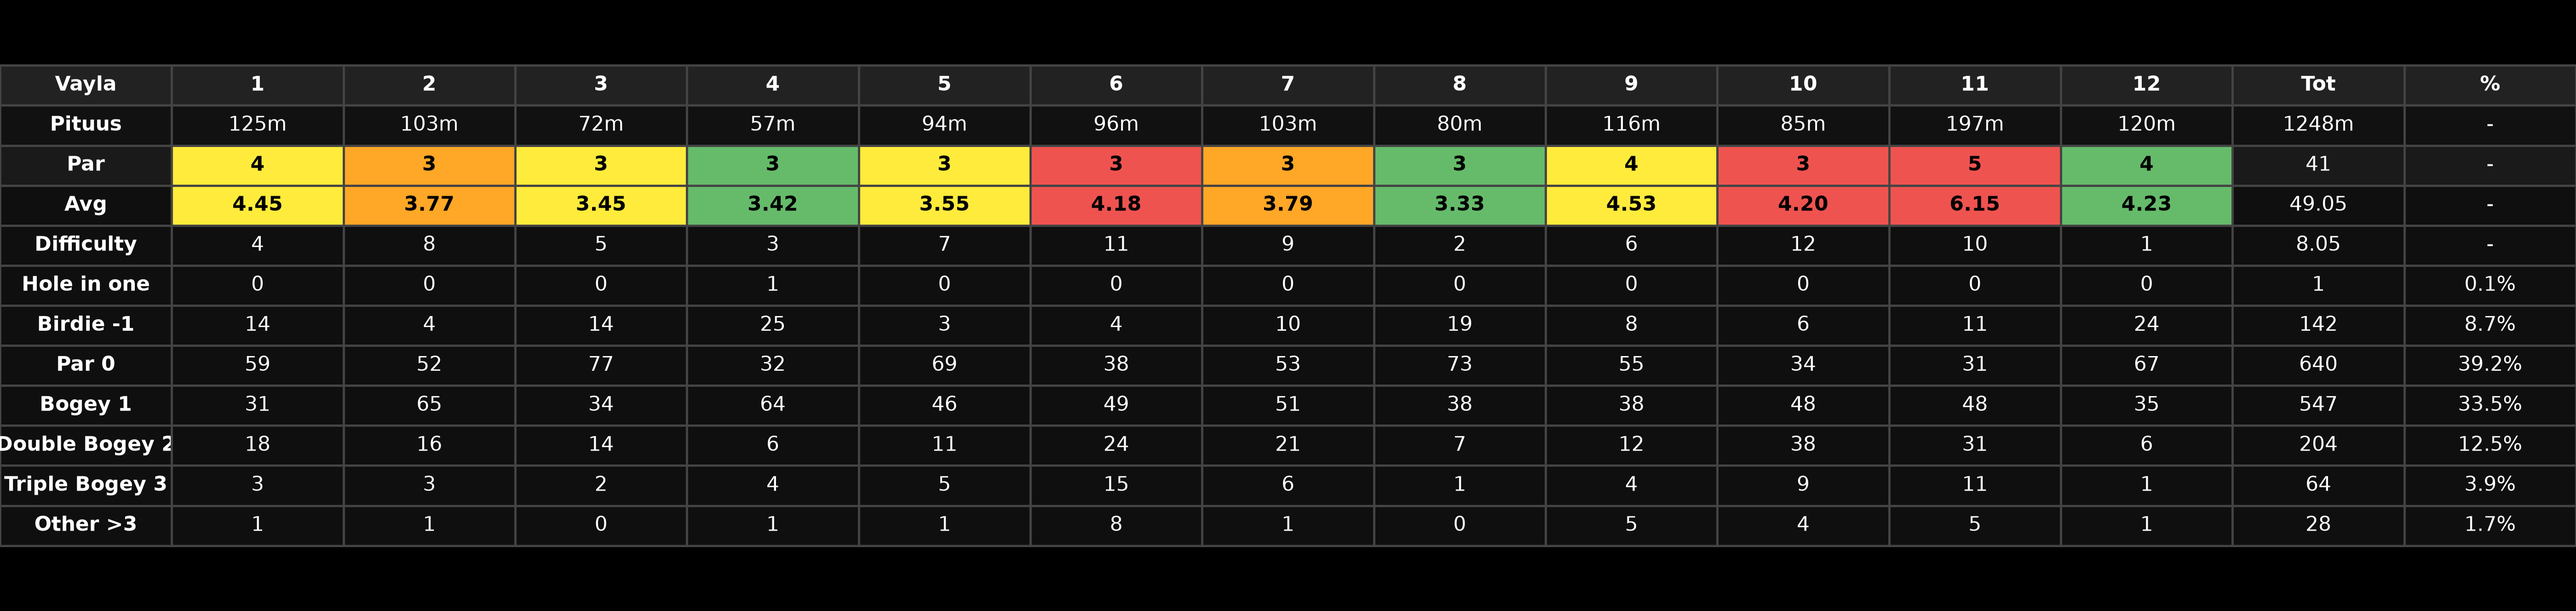
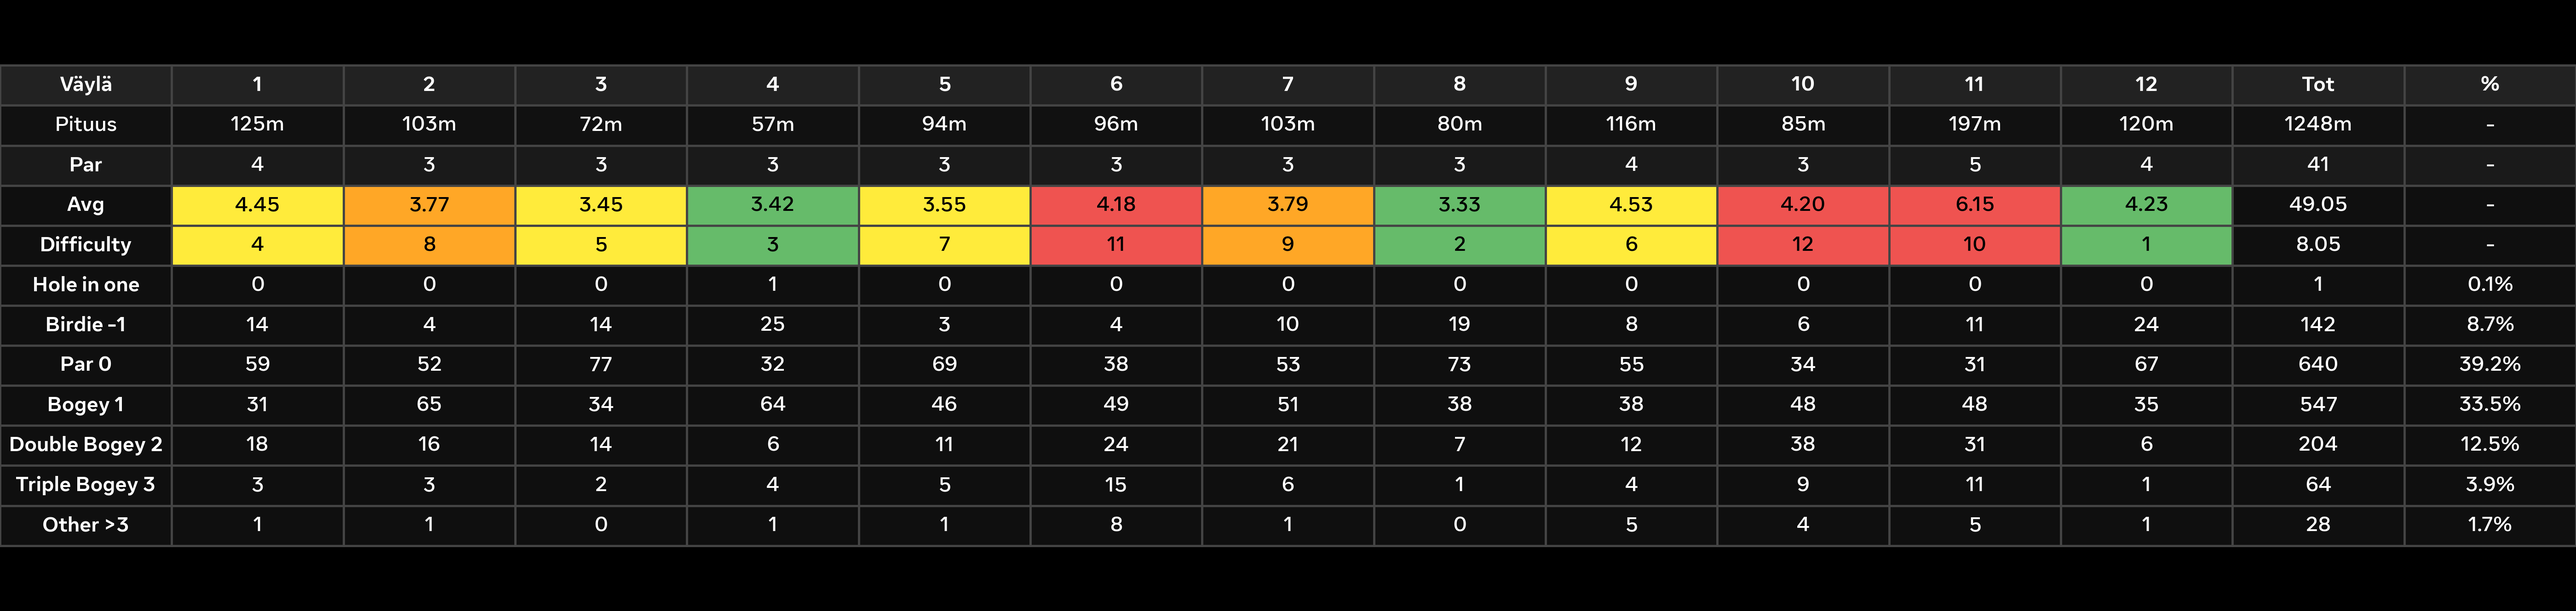
Add files via upload

diff --git a/index.html b/index.html
@@ -1,79 +1,39 @@
-<!DOCTYPE html>
-<html lang="fi">
-<head>
-<meta charset="UTF-8">
-<meta name="viewport" content="width=device-width, initial-scale=1.0">
+<!DOCTYPE html><html lang="fi"><head><meta charset="UTF-8"><meta name="viewport" content="width=device-width,initial-scale=1">
 <title>Luoma-aho FULL AUTO TOP5 SÄÄ</title>
 <style>
-*{box-sizing:border-box} body{margin:0;font-family:Arial;background:#0a0a0a;color:#e0e0e0}
-.header{display:flex;justify-content:space-between;align-items:center;background:#000;padding:12px 20px;border-bottom:1px solid #222}
-.header-left{display:flex;align-items:center;gap:12px}
-.header-left img{height:44px;width:auto;display:block}
-.header-right{display:flex;gap:8px;flex-wrap:wrap} .header-right img{height:28px;background:#fff;border-radius:4px;padding:2px}
+*{box-sizing:border-box}body{margin:0;font-family:Arial;background:#0a0a0a;color:#e0e0e0}
+.header{display:flex;justify-content:space-between;align-items:center;background:#000;padding:12px 20px;border-bottom:1px solid #222;flex-wrap:wrap;gap:12px}
+.header-left{display:flex;align-items:center;gap:12px}.header-left img{height:50px;width:auto;display:block}
+.header-right{display:flex;gap:12px;flex-wrap:wrap;align-items:center}.header-right img{height:42px !important;width:auto;background:#fff;border-radius:6px;padding:3px;transition:transform .15s}.header-right img:hover{transform:scale(1.08)}
 .grid{display:grid;grid-template-columns:repeat(3,1fr);gap:14px;padding:16px;max-width:1400px;margin:0 auto}
 .grid-4{display:grid;grid-template-columns:repeat(4,1fr);gap:14px;padding:0 16px 16px;max-width:1400px;margin:0 auto}
 .card{background:#181818;border:1px solid #2a2a2a;border-radius:14px;padding:18px;min-height:160px}
-.card h3{margin:0 0 12px 0;font-size:11px;color:#888;text-transform:uppercase}
-.card h3 .auto{color:#00ff00}
-.big{font-size:32px;font-weight:900;color:#fff} .small{font-size:11px;color:#777;margin-top:10px}
-.list{list-style:none;padding:0;margin:0;font-size:12px} .list li{display:flex;justify-content:space-between;padding:7px 0;border-bottom:1px solid #222}
-.vayla-section{max-width:1400px;margin:0 auto;padding:0}
-.vayla-card{background:#000;border:0;border-radius:0;padding:0;margin:0;overflow:hidden}
-.vayla-card img{width:100%;display:block;margin:0;padding:0;border:0;border-radius:0}
-@media(max-width:900px){.grid,.grid-4{grid-template-columns:1fr}}
-</style>
-</head>
+.card h3{margin:0 0 12px 0;font-size:11px;color:#888;text-transform:uppercase}.card h3 .auto{color:#00ff00}
+.big{font-size:32px;font-weight:900;color:#fff}.small{font-size:11px;color:#999;margin-top:10px}
+.ratainfo-text{color:#e6e6e6 !important;font-size:13px !important;line-height:1.7 !important;font-weight:500 !important}
+.list{list-style:none;padding:0;margin:0;font-size:12px}.list li{display:flex;justify-content:space-between;padding:7px 0;border-bottom:1px solid #222}
+.vayla-section{max-width:1400px;margin:0 auto;padding:0}.vayla-card{background:#000;border:0;padding:0;margin:0;overflow:hidden}.vayla-card img{width:100%;display:block;margin:0;padding:0;border:0}
+@media(max-width:900px){.grid,.grid-4{grid-template-columns:1fr}.header-right img{height:36px !important}.header-left img{height:42px}}
+</style></head>
 <body>
-<div class="header">
-  <div class="header-left">
-    <a href="/"><img src="./logot/l-a-friba-logo.jpg" alt="logo"></a>
-    <span style="font-size:125%;font-weight:800;color:#fff;letter-spacing:0.5px">Luoma-ahon Frisbeegolfrata</span>
-    <span style="color:#00ff00;font-size:12px">● LIVE 1s/5min FULL</span>
-  </div>
-  <div class="header-right">
-    <a href="https://www.google.com/maps/place/Luoma-ahon+Frisbeegolfrata/@63.0901676,23.8860139,12z"><img src="./logot/gmaps-logo.jpg"></a>
-    <a href="https://discgolfmetrix.com/course/44010"><img src="./logot/metrix-logo.png"></a>
-    <a href="https://photos.google.com/share/AF1QipPwBhzcZ3Nf0BEpLICSkhQSFIuTA1VO3i1W_u0l_4oY_ZfytXxa21wqxIx4RqRepA"><img src="./logot/parkdly-logo.png"></a>
-    <a href="https://photos.google.com/share/AF1QipNfClPGrg-CMqrUn9w9qeso7oFvZzjTO-kmUuy3NWf9o06lgy1TohSBSykLkaW-vw"><img src="./logot/loytokiekot-logo.png"></a>
-    <a href="https://youtu.be/ewQ-m-BU6SI"><img src="./logot/yt-logo.png"></a>
-    <a href="https://www.instagram.com/62830_frisbeegolfrata"><img src="./logot/ig-logo.png"></a>
-    <a href="https://frisbeegolfradat.fi/rata/luoma-ahon-frisbeegolfrata/"><img src="./logot/fgr-logo.png"></a>
-    <a href="https://udisc.com/courses/luoma-ahon-frisbeegolfrata-YNEx"><img src="./logot/udisc-logo.png"></a>
-    <a href="https://luomaahonfrisbeegolfrata-gif.github.io/ratamestari-palvelu/"><img src="./logot/ratamestari-logo.png"></a>
-  </div>
-</div>
-
+<div class="header"><div class="header-left"><a href="/"><img src="./logot/l-a-friba-logo.jpg" alt="logo"></a><span style="font-size:125%;font-weight:800;color:#fff">Luoma-ahon Frisbeegolfrata</span><span style="color:#00ff00;font-size:12px">● LIVE 1s/5min FULL</span></div>
+<div class="header-right">
+<a href="https://www.google.com/maps/place/Luoma-ahon+Frisbeegolfrata/@63.0901676,23.8860139,12z"><img src="./logot/gmaps-logo.jpg"></a>
+<a href="https://discgolfmetrix.com/course/44010"><img src="./logot/metrix-logo.png"></a>
+<a href="https://photos.google.com/share/AF1QipPwBhzcZ3Nf0BEpLICSkhQSFIuTA1VO3i1W_u0l_4oY_ZfytXxa21wqxIx4RqRepA"><img src="./logot/parkdly-logo.png"></a>
+<a href="https://photos.google.com/share/AF1QipNfClPGrg-CMqrUn9w9qeso7oFvZzjTO-kmUuy3NWf9o06lgy1TohSBSykLkaW-vw"><img src="./logot/loytokiekot-logo.png"></a>
+<a href="https://youtu.be/ewQ-m-BU6SI"><img src="./logot/yt-logo.png"></a>
+<a href="https://www.instagram.com/62830_frisbeegolfrata"><img src="./logot/ig-logo.png"></a>
+<a href="https://frisbeegolfradat.fi/rata/luoma-ahon-frisbeegolfrata/"><img src="./logot/fgr-logo.png"></a>
+<a href="https://udisc.com/courses/luoma-ahon-frisbeegolfrata-YNEx"><img src="./logot/udisc-logo.png"></a>
+<a href="https://luomaahonfrisbeegolfrata-gif.github.io/ratamestari-palvelu/"><img src="./logot/ratamestari-logo.png"></a>
+</div></div>
 <div class="grid">
-  <div class="card"><h3>RATAINFO</h3><div class=".small{font-size:11px;color:#999;margin-top:10px}
-.ratainfo-text{color:#e6e6e6 !important;font-size:11px !important;line-height:1.5 !important;font-weight:500 !important}">Kalliopohjaisessa mäkisessä mäntymetsä maastossa<br>Tekninen / vaativa mutta helposti lähestyttävä<br>Pienellä alueella jossa olemattomat siirtymät<br>Loistava kunto metsäradaksi<br>Väylien pituudet 57-197m<br>OB:t ja Mandot haastavat päätöksentekoa<br>Tekniikka, kiekko kontrolli ja heittovalinnat avainasemassa onnistumiseen</div></div>
-  <div class="card"><h3>UDISC & METRIX TULOSKIERROKSET <span class="auto">- AUTO 1s/5MIN</span></h3><div class="big" id="live-kierrokset">1130</div><div class="small">UDisc 428 + Metrix 43119 702 = 1130 OIKEIN</div></div>
-  <div class="card"><h3>UNIIKIT PELAAJAT <span class="auto">- AUTO</span></h3><div class="big" id="live-pelaajat">100</div><div class="small">UDisc 67 + Metrix ~60 - päällekkäisyydet ~100</div></div>
+<div class="card"><h3>RATAINFO</h3><div class="small ratainfo-text">Kalliopohjaisessa mäkisessä mäntymetsä maastossa<br>Tekninen / vaativa mutta helposti lähestyttävä<br>Pienellä alueella jossa olemattomat siirtymät<br>Loistava kunto metsäradaksi<br>Väylien pituudet 57-197m<br>OB:t ja Mandot haastavat päätöksentekoa<br>Tekniikka, kiekko kontrolli ja heittovalinnat avainasemassa onnistumiseen</div></div>
+<div class="card"><h3>UDISC & METRIX TULOSKIERROKSET <span class="auto">- AUTO 1s/5MIN</span></h3><div class="big" id="live-kierrokset">1130</div><div class="small">UDisc 428 + Metrix 43119 702 = 1130 OIKEIN</div></div>
+<div class="card"><h3>UNIIKIT PELAAJAT <span class="auto">- AUTO</span></h3><div class="big" id="live-pelaajat">100</div><div class="small">UDisc 67 + Metrix ~60 - päällekkäisyydet ~100</div></div>
 </div>
-
-<div class="grid">
-  <div class="card"><h3>PELIAIKA <span class="auto">- AUTO</span></h3><div class="big" id="live-aika">1481h</div><div class="small">UDisc 603h + 702×1.25h=878h = 1481h</div></div>
-  <div class="card"><h3>ASKELMÄÄRÄ <span class="auto">- AUTO</span></h3><div class="big" id="live-askeleet">3,100,890</div><div class="small">UDisc 1,275,690 + 702×2600</div></div>
-  <div class="card"><h3>KILOMETRIT <span class="auto">- AUTO</span></h3><div class="big" id="live-km">2260 km</div><div class="small">1130×2km=2260km / 2.5km=2825km</div></div>
-</div>
-
-<div class="grid-4">
-  <div class="card"><h3>METRIX / VÄYLÄOPASTE TOP 5 - 44010 Par 41 <span class="auto">- AUTO 1s/5MIN</span></h3><ul class="list" id="top5-44010"><li>Ladataan...</li></ul></div>
-  <div class="card"><h3>METRIX 2K TOP 5 - 44763 Par 82 <span class="auto">- AUTO 1s/5MIN</span></h3><ul class="list" id="top5-44763"><li>Ladataan...</li></ul></div>
-  <div class="card"><h3>UDISC LEADERBOARD TOP 5 <span class="auto">- AUTO</span></h3><ul class="list" id="top5-udisc"><li>Ladataan...</li></ul></div>
-  <div class="card"><h3>SÄÄ - LUOMA-AHO - Foreca.fi / Alajärvi <span class="auto">- AUTO 1s/5MIN</span></h3><div id="saa-content"><div class="big">12°C</div><div class="small">Ladataan...</div></div></div>
-</div>
-
-<div class="vayla-section">
-  <div class="vayla-card">
-    <div style="display:flex;justify-content:space-between;align-items:center;padding:6px 10px;background:#000">
-      <h3 style="margin:0;color:#888;font-size:11px">VÄYLÄTILASTO - LIVE MUSTA + PITUUS - EI TYHJÄÄ <span class="auto">- AUTO 1s/5MIN</span></h3>
-      <span style="background:#00ff00;color:#000;padding:2px 8px;border-radius:12px;font-size:10px;font-weight:800">● LIVE</span>
-    </div>
-    <div id="vayla-live-meta" style="font-size:11px;color:#666;padding:4px 10px;background:#000"></div>
-    <img id="vayla-live-img" src="./vaylatilasto.png" alt="Väylätilasto">
-  </div>
-</div>
-
-<script src="./js/ratatilasto.js"></script>
-</body>
-</html>
+<div class="grid"><div class="card"><h3>PELIAIKA <span class="auto">- AUTO</span></h3><div class="big" id="live-aika">1481h</div><div class="small">UDisc 603h + 702×1.25h</div></div><div class="card"><h3>ASKELMÄÄRÄ <span class="auto">- AUTO</span></h3><div class="big" id="live-askeleet">3,100,890</div><div class="small">UDisc 1,275,690 + 702×2600</div></div><div class="card"><h3>KILOMETRIT <span class="auto">- AUTO</span></h3><div class="big" id="live-km">2260 km</div><div class="small">1130×2km</div></div></div>
+<div class="grid-4"><div class="card"><h3>METRIX 44010 <span class="auto">- AUTO 1s/5MIN</span></h3><ul class="list" id="top5-44010"><li>Ladataan...</li></ul></div><div class="card"><h3>METRIX 44763 <span class="auto">- AUTO</span></h3><ul class="list" id="top5-44763"><li>Ladataan...</li></ul></div><div class="card"><h3>UDISC <span class="auto">- AUTO</span></h3><ul class="list" id="top5-udisc"><li>Ladataan...</li></ul></div><div class="card"><h3>SÄÄ <span class="auto">- AUTO</span></h3><div id="saa-content"><div class="big">12°C</div><div class="small">Ladataan...</div></div></div></div>
+<div class="vayla-section"><div class="vayla-card"><div style="display:flex;justify-content:space-between;align-items:center;padding:6px 10px;background:#000"><h3 style="margin:0;color:#888;font-size:11px">VÄYLÄTILASTO - LIVE MUSTA + PITUUS - EI TYHJÄÄ <span class="auto" style="color:#00ff00">- AUTO 1s/5MIN</span></h3><span style="background:#00ff00;color:#000;padding:2px 8px;border-radius:12px;font-size:10px;font-weight:800">● LIVE</span></div><div id="vayla-live-meta" style="font-size:11px;color:#666;padding:4px 10px;background:#000"></div><img id="vayla-live-img" src="./vaylatilasto.png" alt="Vaylatilasto"></div></div>
+<script src="./js/ratatilasto.js"></script></body></html>

diff --git a/js/ratatilasto.js b/js/ratatilasto.js
@@ -1,30 +1,24 @@
-// KIRURGINEN DATA ONLY - 1s/5min FULL - ei koske header/logot/layout
 async function loadAll(){
   try{
     const t=Date.now();
     const til=await fetch('./data/tilasto.json?t='+t).then(r=>r.json());
     const el=id=>document.getElementById(id);
-    if(el('live-kierrokset')) el('live-kierrokset').textContent=til.total??til.laskenta?.kierrokset?.arvo??1130;
+    if(el('live-kierrokset')) el('live-kierrokset').textContent=til.total??1130;
     if(el('live-pelaajat')) el('live-pelaajat').textContent=til.unique??100;
     if(el('live-aika')) el('live-aika').textContent=(til.playtime??1481)+'h';
     if(el('live-askeleet')) el('live-askeleet').textContent=(til.steps??3100890).toLocaleString('fi-FI');
     if(el('live-km')) el('live-km').textContent=(til.km??2260)+' km';
-  }catch(e){console.error('tilasto',e)}
+  }catch(e){}
   try{
     const top=await fetch('./data/top5.json?t='+Date.now()).then(r=>r.json());
-    const render=(id,arr)=>{const e=document.getElementById(id);if(!e||!arr)return;e.innerHTML=arr.map(x=>`<li><span>${x.rank}. ${x.player}</span><span>${x.score}</span></li>`).join('');};
+    const render=(id,arr)=>{const e=document.getElementById(id);if(!e||!arr)return;e.innerHTML=arr.map(x=>'<li><span>'+x.rank+'. '+x.player+'</span><span>'+x.score+'</span></li>').join('');};
     render('top5-44010',top.metrix_44010?.top5);
     render('top5-44763',top.metrix_44763?.top5);
     render('top5-udisc',top.udisc?.top5);
     const s=top.saa?.current;
     const sc=document.getElementById('saa-content');
-    if(sc&&s){sc.innerHTML=`<div class="big">${s.temp}</div><div class="small">${s.feels} | ${s.humidity} | ${s.wind} | ${s.cloud}<br>${s.precip} sade | Gust ${s.gust} | ${s.visibility}<br><span style="color:#00ff00">${s.updated}</span></div>`;}
-  }catch(e){console.error('top5',e)}
-  try{
-    const img=document.getElementById('vayla-live-img');
-    if(img) img.src='./vaylatilasto.png?t='+Date.now();
-    const meta=document.getElementById('vayla-live-meta');
-    if(meta) meta.textContent='Päivitetty: '+new Date().toLocaleString('fi-FI');
+    if(sc&&s){sc.innerHTML='<div class="big">'+s.temp+'</div><div class="small">'+s.feels+' | '+s.humidity+' | '+s.wind+' | '+s.cloud+'<br>'+s.precip+' sade | Gust '+s.gust+'<br><span style="color:#00ff00">'+s.updated+'</span></div>';}
   }catch(e){}
+  try{const img=document.getElementById('vayla-live-img');if(img) img.src='./vaylatilasto.png?t='+Date.now();}catch(e){}
 }
 loadAll();setInterval(loadAll,5000);

diff --git a/scraper.py b/scraper.py
@@ -1,20 +1,16 @@
-import json
-import pathlib
+import json, pathlib
 import matplotlib
 matplotlib.use('Agg')
 import matplotlib.pyplot as plt
 
 data_path = pathlib.Path('data/ratatilasto.json')
-if not data_path.exists():
-    data_path = pathlib.Path('ratatilasto.json')
 data = json.loads(data_path.read_text(encoding='utf-8'))
 
 def make_tiukka(d, out_path):
     headers = ["Vayla"] + [str(i) for i in range(1,13)] + ["Tot","%"]
     pituus = d.get("Pituus", [125,103,72,57,94,96,103,80,116,85,197,120])
-    tot_p = sum(pituus)
     rows = [
-        ["Pituus"] + [f"{x}m" for x in pituus] + [f"{tot_p}m","-"],
+        ["Pituus"] + [f"{x}m" for x in pituus] + [f"{sum(pituus)}m","-"],
         ["Par"] + d["Par"] + [d["Tot"]["Par"],"-"],
         ["Avg"] + [f"{x:.2f}" for x in d["Avg"]] + [f"{d['Tot']['Avg']:.2f}","-"],
         ["Difficulty"] + d["Difficulty"] + [f"{d['OverPar']:.2f}","-"],
@@ -27,57 +23,40 @@ def make_tiukka(d, out_path):
         ["Other >3"] + d["Other"] + [d["Tot"]["Other"], f"{d['Pct']['Other']}%"],
     ]
     full = [headers] + rows
-
-    # Varikoodit - palautettu
-    GREEN = "#66BB6A"
-    YELLOW = "#FFEB3B"
-    ORANGE = "#FFA726"
-    RED = "#EF5350"
-    over = [d["Avg"][i] - d["Par"][i] for i in range(12)]
-    so = sorted(over)
+    GREEN="#66BB6A"; YELLOW="#FFEB3B"; ORANGE="#FFA726"; RED="#EF5350"
+    over=[d["Avg"][i]-d["Par"][i] for i in range(12)]
+    so=sorted(over)
     def col(o):
-        if o <= so[2]:
-            return GREEN
-        elif o <= so[6]:
-            return YELLOW
-        elif o <= so[8]:
-            return ORANGE
-        else:
-            return RED
-    colors = [col(o) for o in over]
-
+        if o <= so[2]: return GREEN
+        elif o <= so[6]: return YELLOW
+        elif o <= so[8]: return ORANGE
+        else: return RED
+    colors=[col(o) for o in over]
     fig, ax = plt.subplots(figsize=(16,3.8))
     fig.patch.set_facecolor('black')
     ax.set_facecolor('black')
     ax.axis('off')
-
     table = ax.table(cellText=full, loc='center', cellLoc='center')
     table.auto_set_font_size(False)
     table.set_fontsize(9)
     table.scale(1,1.15)
-
     for i in range(len(full)):
         for j in range(len(headers)):
-            cell = table[(i,j)]
+            cell=table[(i,j)]
             cell.set_edgecolor('#444444')
-            if i == 0:
+            if i==0:
                 cell.set_facecolor('#222222')
                 cell.set_text_props(color='white', weight='bold')
-            elif i == 1:
-                cell.set_facecolor('#111111')
-                cell.set_text_props(color='white')
+            elif i in (2,3) and 1 <= j <= 12:
+                cell.set_facecolor(colors[j-1])
+                cell.set_text_props(color='black', weight='bold')
             else:
-                # Vari: Avg ja Difficulty rivit varikoodattu
-                if i in (2,3) and 1 <= j <= 12:
-                    cell.set_facecolor(colors[j-1])
-                    cell.set_text_props(color='black', weight='bold')
-                else:
-                    cell.set_facecolor('#0f0f0f' if i > 2 else '#1a1a1a')
-                    cell.set_text_props(color='white')
-            if j == 0:
+                cell.set_facecolor('#0f0f0f' if i>1 else '#111111')
+                cell.set_text_props(color='white')
+            if j==0:
                 cell.set_text_props(color='white', weight='bold')
-
-    plt.subplots_adjust(left=0, right=1, top=1, bottom=0)
+    import matplotlib.pyplot as plt
+    plt.subplots_adjust(left=0,right=1,top=1,bottom=0)
     pathlib.Path(out_path).parent.mkdir(parents=True, exist_ok=True)
     plt.savefig(out_path, dpi=350, bbox_inches='tight', pad_inches=0, facecolor='black')
     plt.close()
@@ -86,4 +65,4 @@ make_tiukka(data, 'vaylatilasto.png')
 make_tiukka(data, 'data/vaylatilasto.png')
 make_tiukka(data, 'ratatilasto.png')
 make_tiukka(data, 'data/ratatilasto.png')
-print("PNG tiukka vari OK")
+print("PNG vari tiukka OK")
